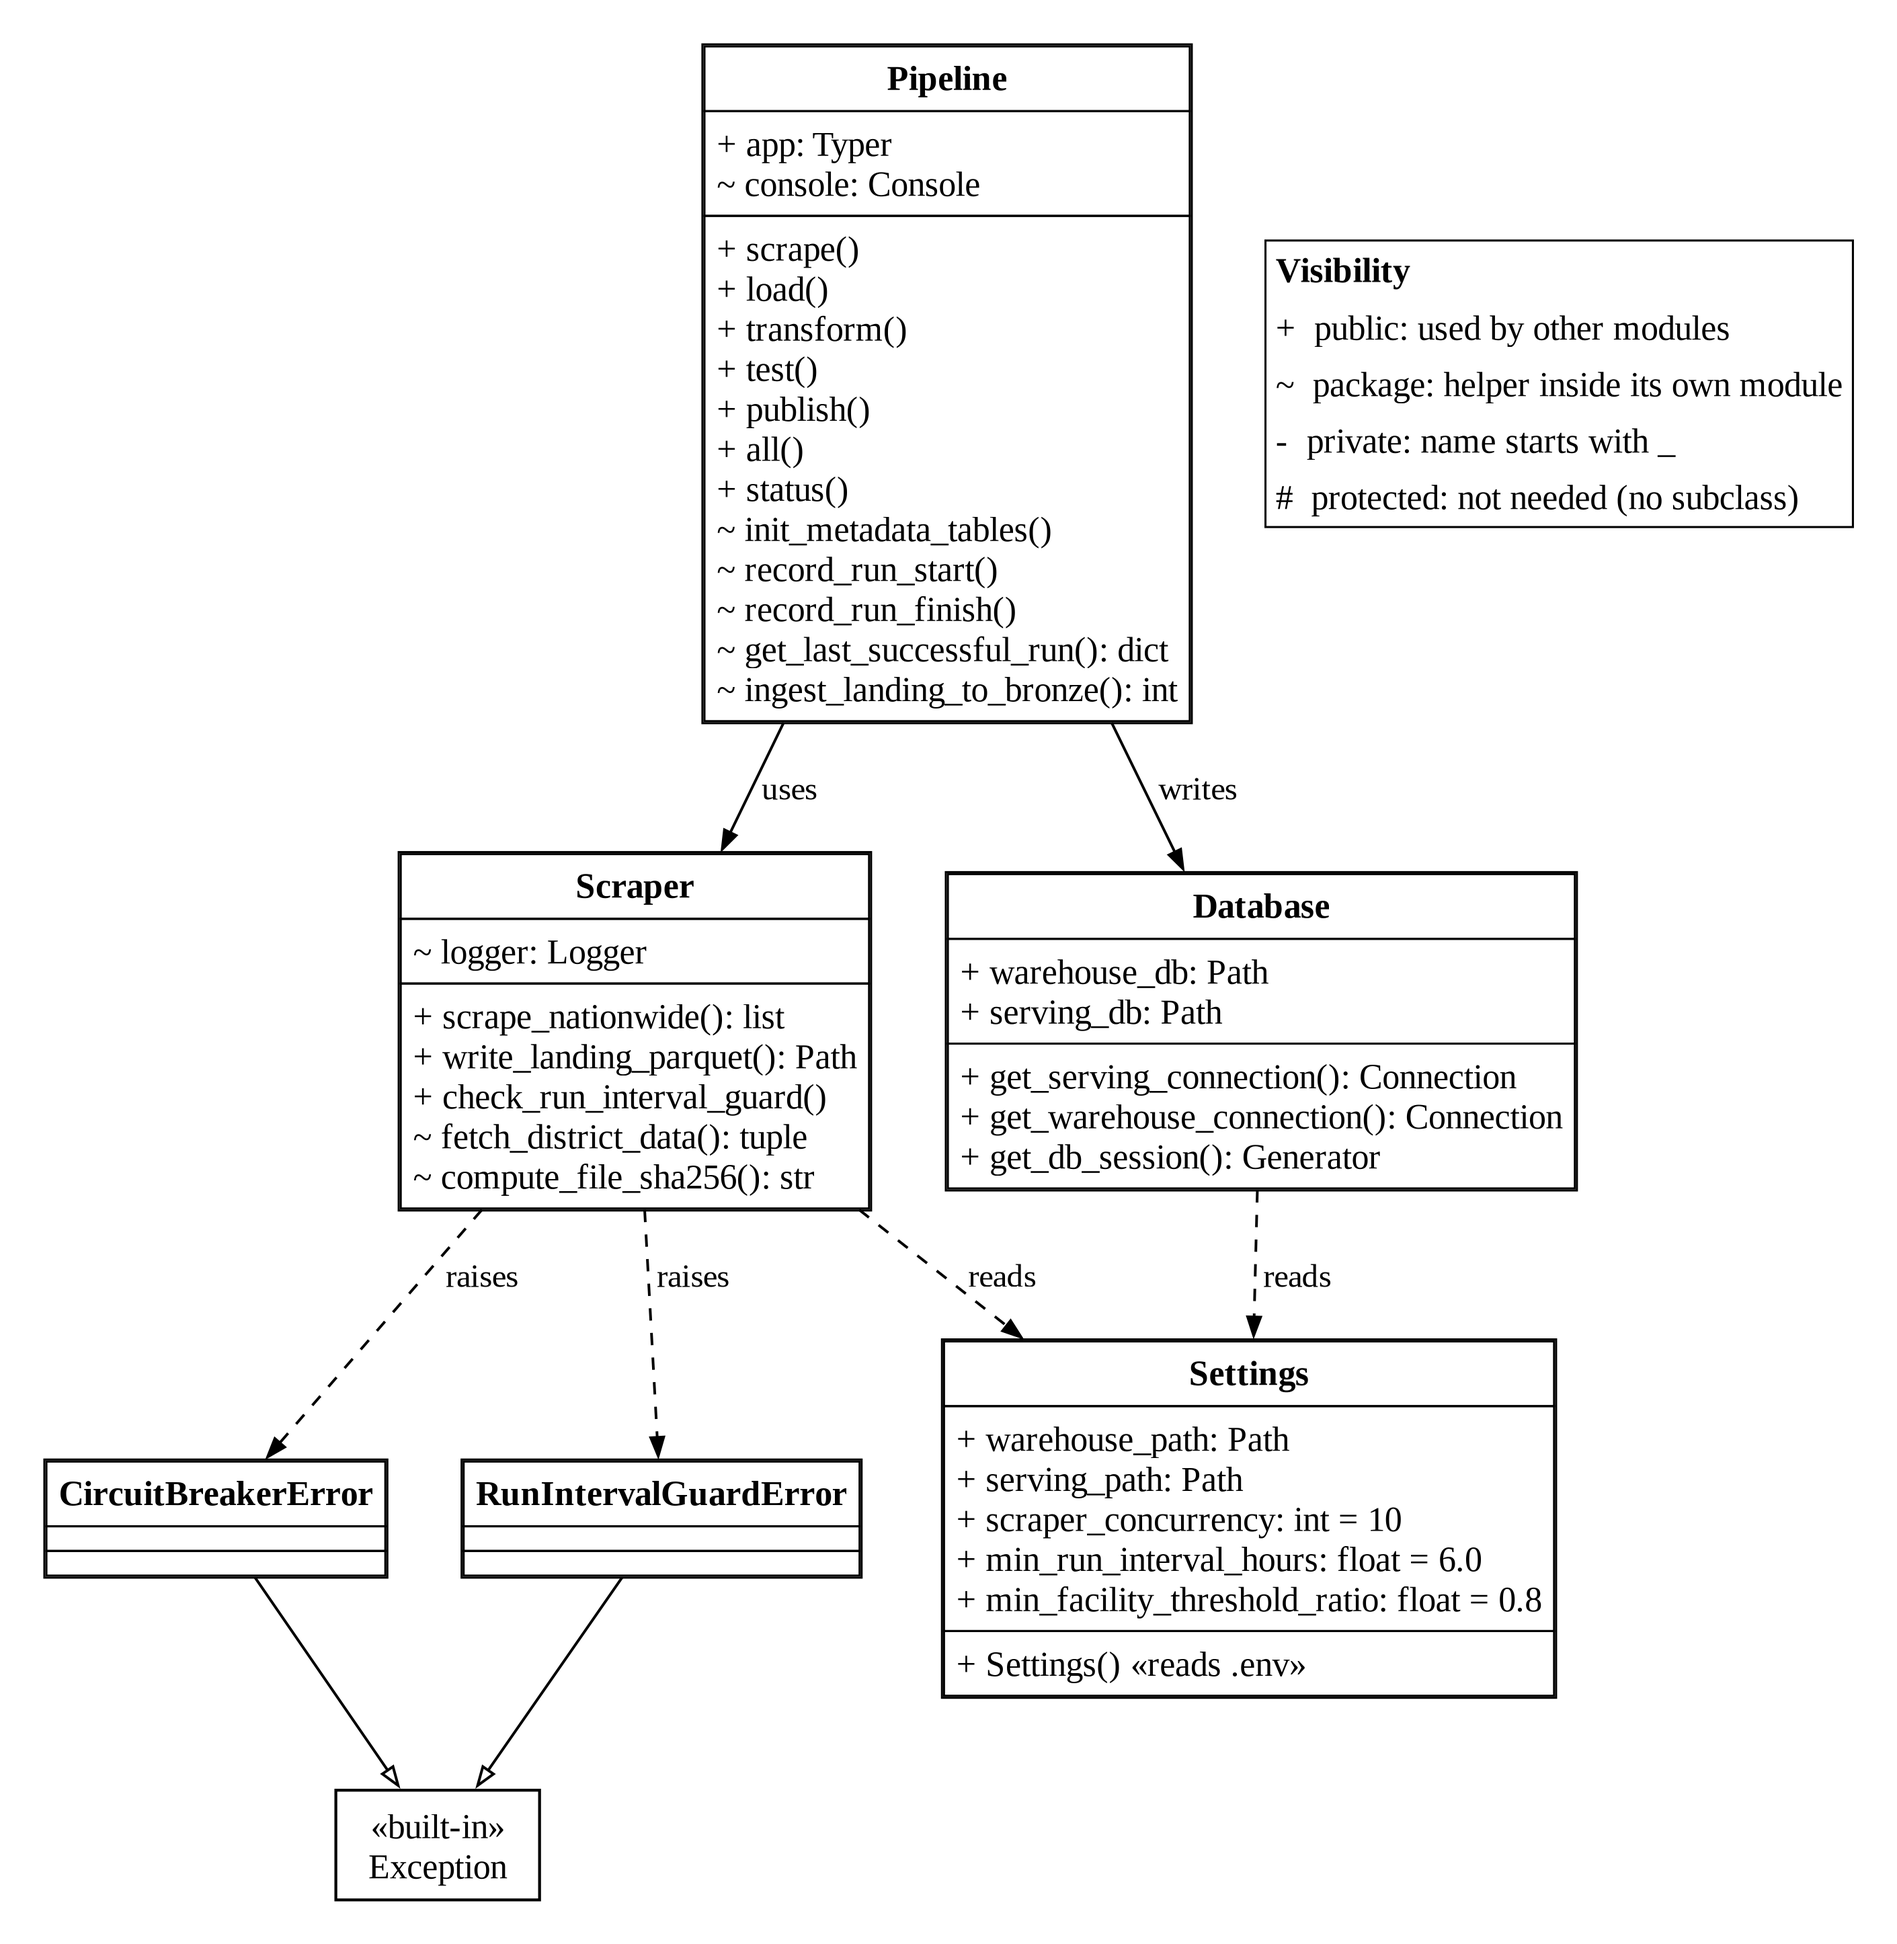
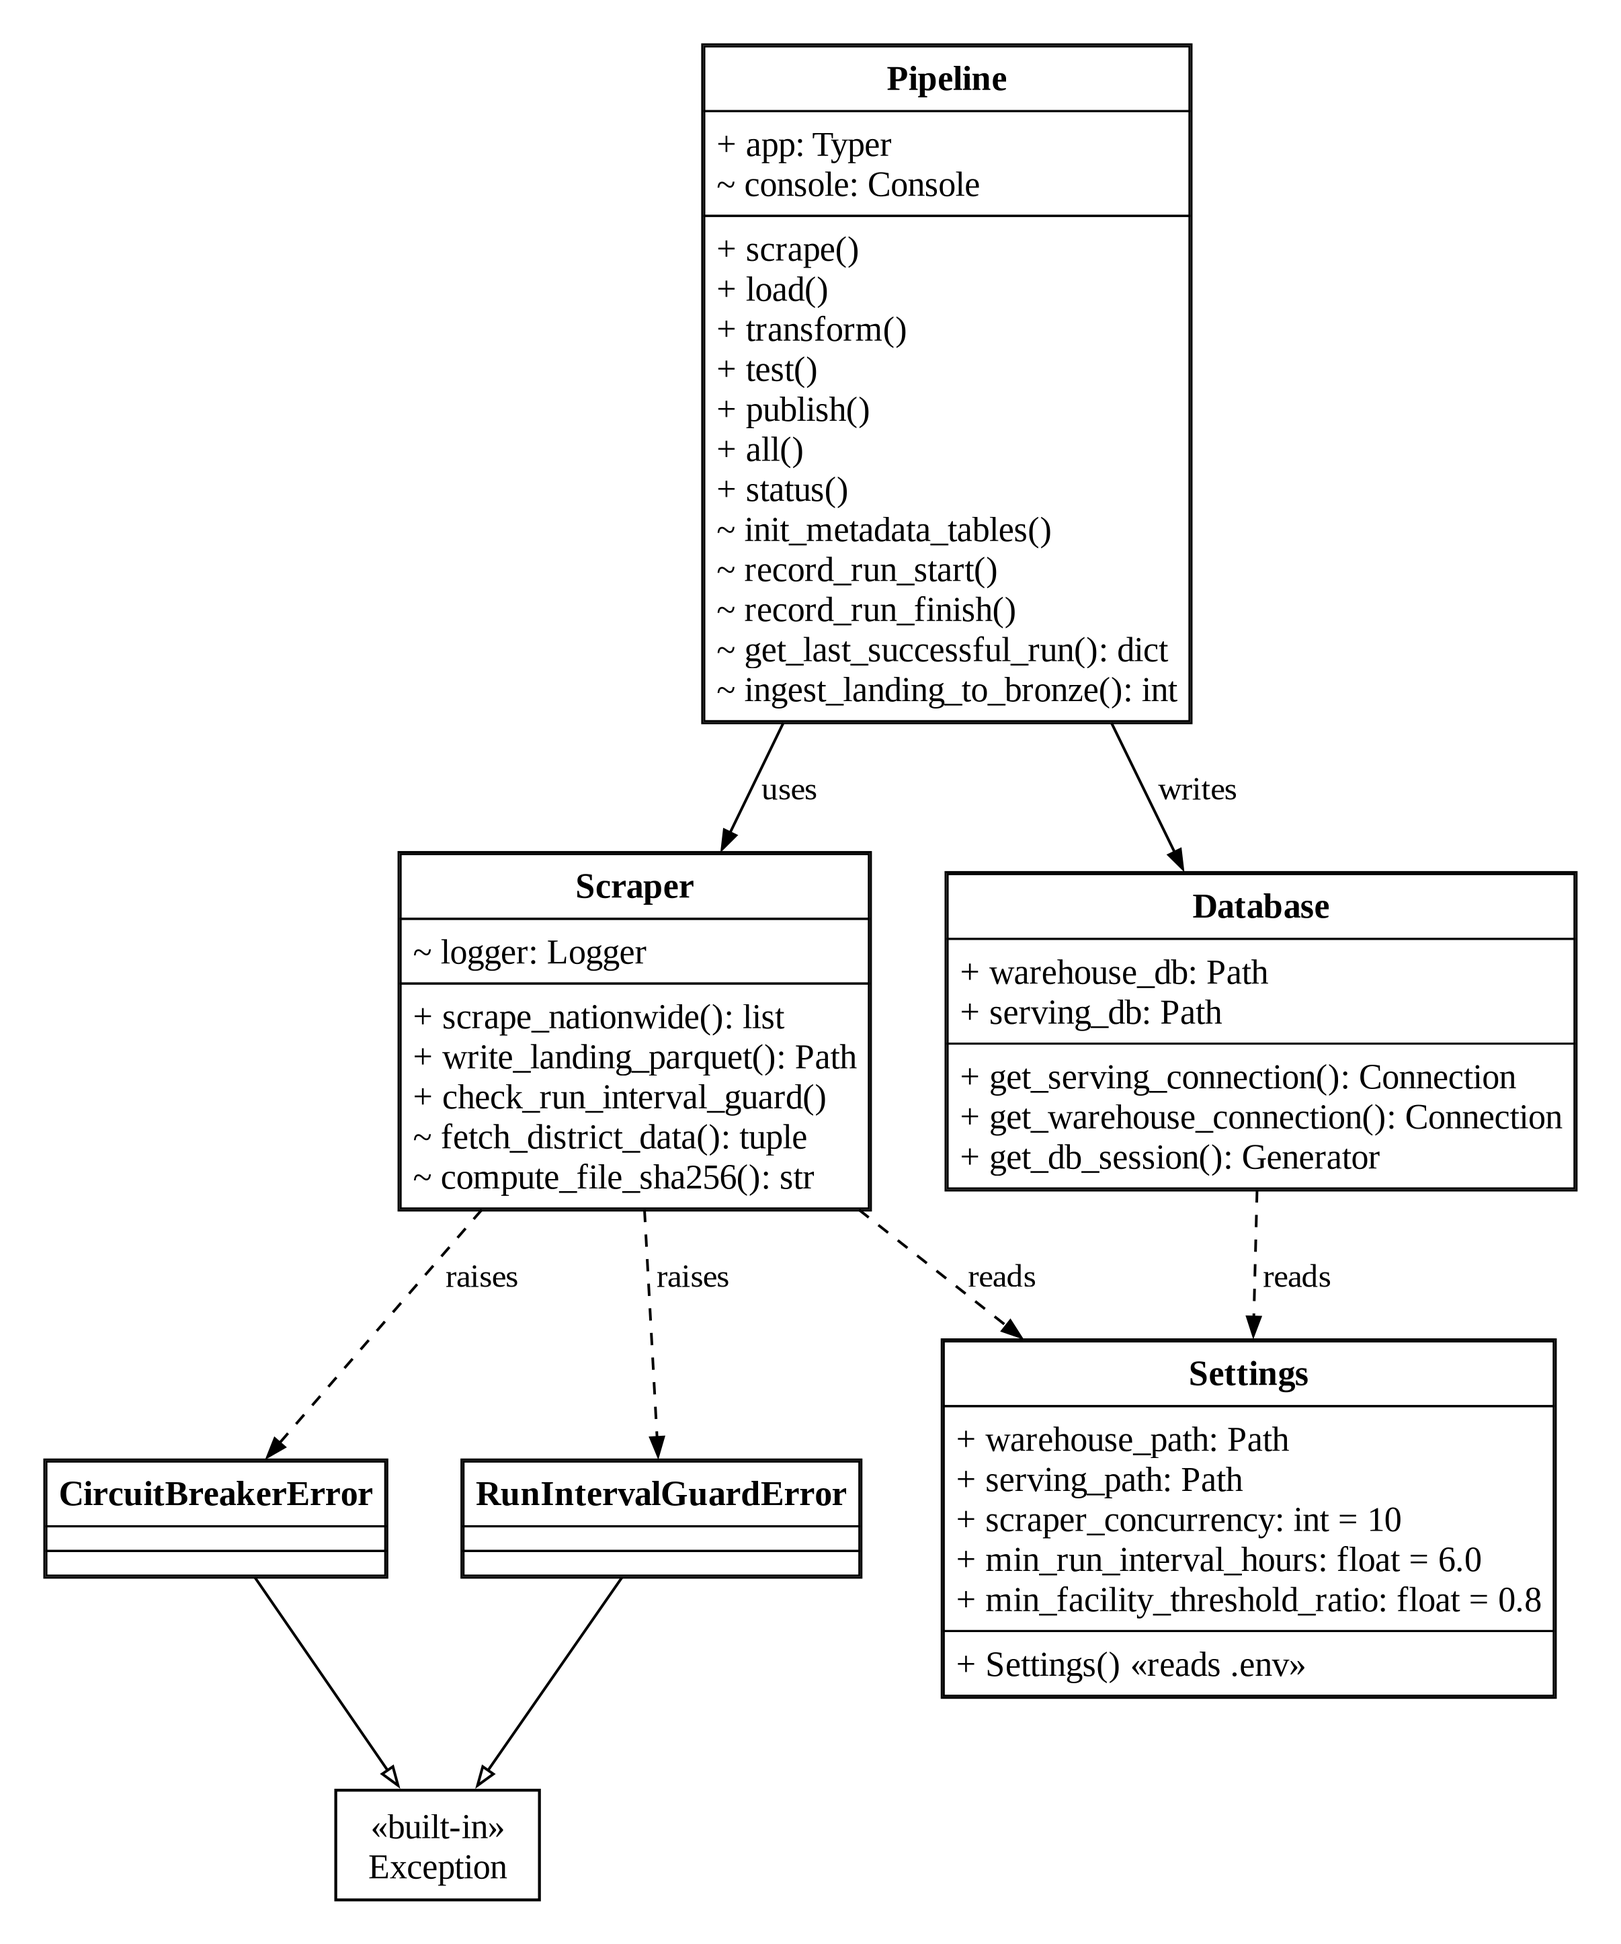
docs: remove visibility legend from class diagrams

diff --git a/scripts/report/generate_diagrams.py b/scripts/report/generate_diagrams.py
@@ -140,13 +140,6 @@ def class_diagram():
         "CircuitBreakerError": ([""], [""]),
         "RunIntervalGuardError": ([""], [""]),
     }
-    legend = """  legend [shape=plain, label=<<TABLE BORDER="1" CELLBORDER="0" CELLSPACING="0" CELLPADDING="4">
-    <TR><TD ALIGN="LEFT"><B>Visibility</B></TD></TR>
-    <TR><TD ALIGN="LEFT">+  public: used by other modules</TD></TR>
-    <TR><TD ALIGN="LEFT">~  package: helper inside its own module</TD></TR>
-    <TR><TD ALIGN="LEFT">-  private: name starts with _</TD></TR>
-    <TR><TD ALIGN="LEFT">#  protected: not needed (no subclass)</TD></TR></TABLE>>];
-"""
 
     def nodes(names):
         return "\n".join(f"  {n} {_uml(n, *classes[n])};" for n in names) + "\n"
@@ -160,10 +153,9 @@ def class_diagram():
         "CircuitBreakerError",
         "RunIntervalGuardError",
     ]
-    body = "  rankdir=TB; nodesep=0.5; ranksep=0.6;\n" + nodes(pipeline) + legend
+    body = "  rankdir=TB; nodesep=0.5; ranksep=0.6;\n" + nodes(pipeline)
     body += """
   Exception [shape=box, label="«built-in»\\nException"];
-  { rank=same; legend; Pipeline; }
   Pipeline -> Scraper [label=" uses"];
   Pipeline -> Database [label=" writes"];
   Scraper -> Settings [label=" reads", style=dashed];
@@ -176,10 +168,8 @@ def class_diagram():
     render_dot("class_diagram", body)
 
     api = ["APIRoutes", "Database", "MedicalRules", "GeoService", "CSVExporter"]
-    body = "  rankdir=LR; nodesep=0.35; ranksep=0.9;\n" + nodes(api) + legend
+    body = "  rankdir=LR; nodesep=0.35; ranksep=0.9;\n" + nodes(api)
     body += """
-  { rank=same; legend; APIRoutes; }
-  legend -> APIRoutes [style=invis];
   APIRoutes -> Database [label=" reads"];
   APIRoutes -> MedicalRules [label=" uses"];
   APIRoutes -> GeoService [label=" uses"];
